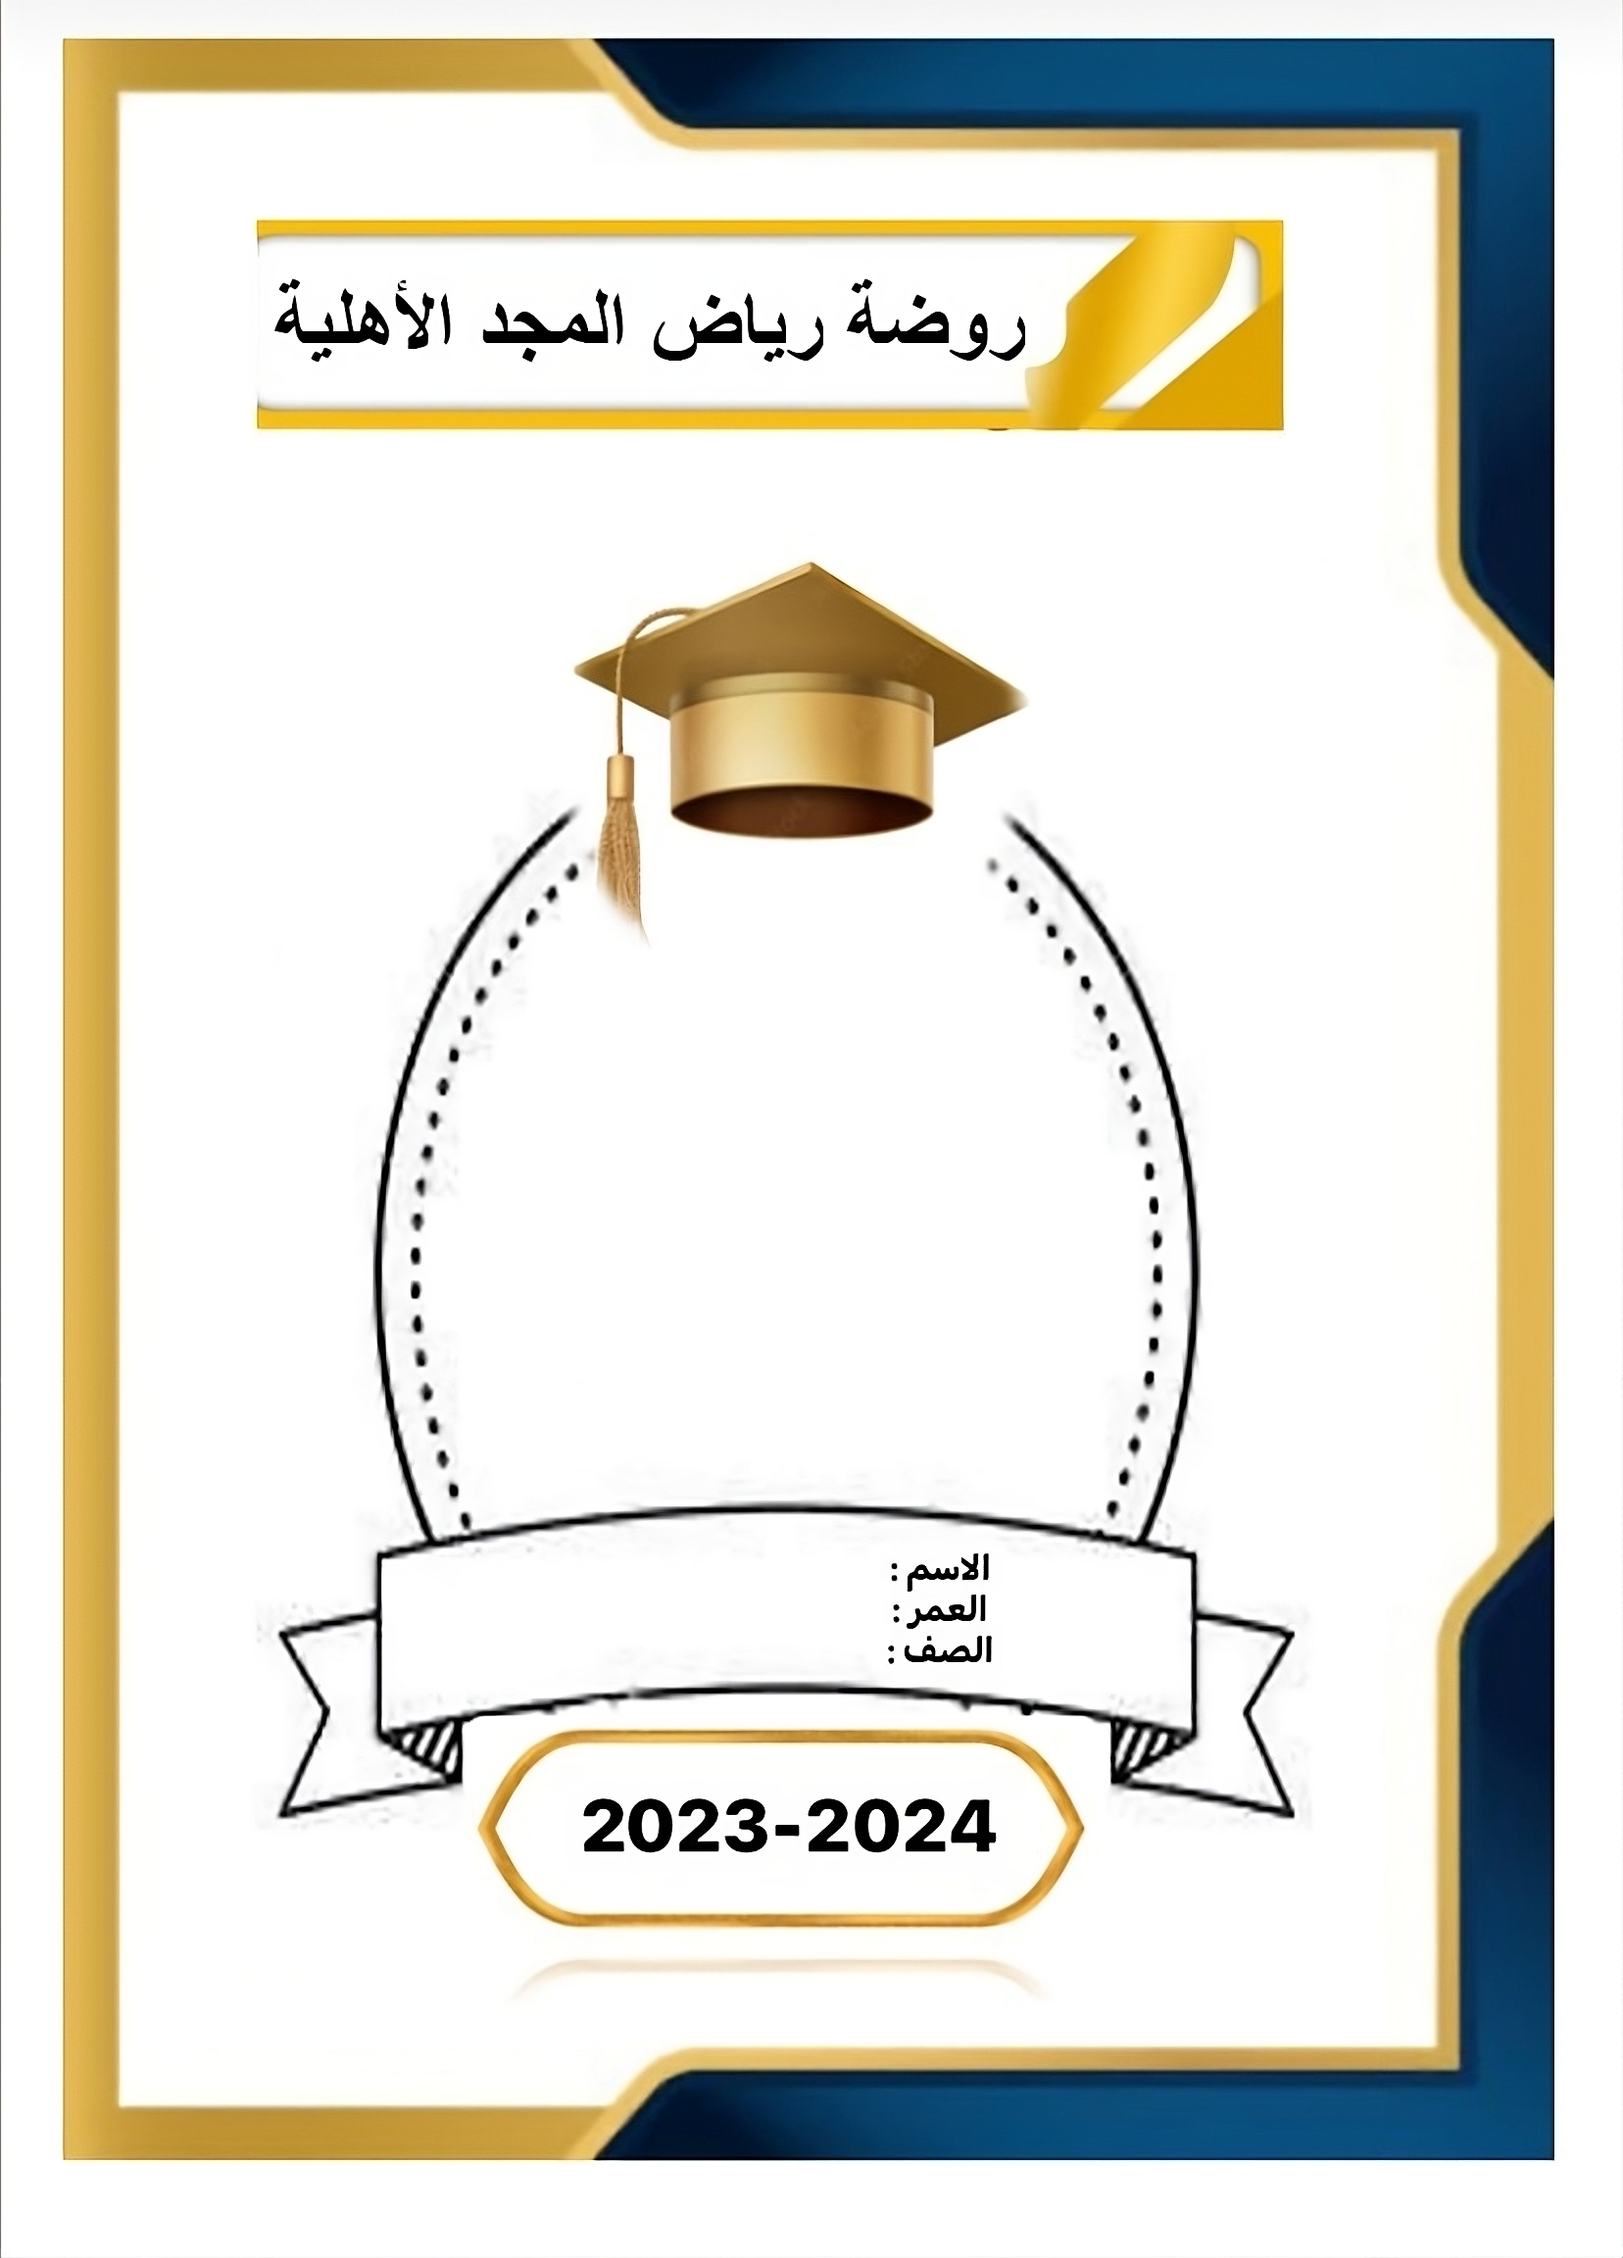
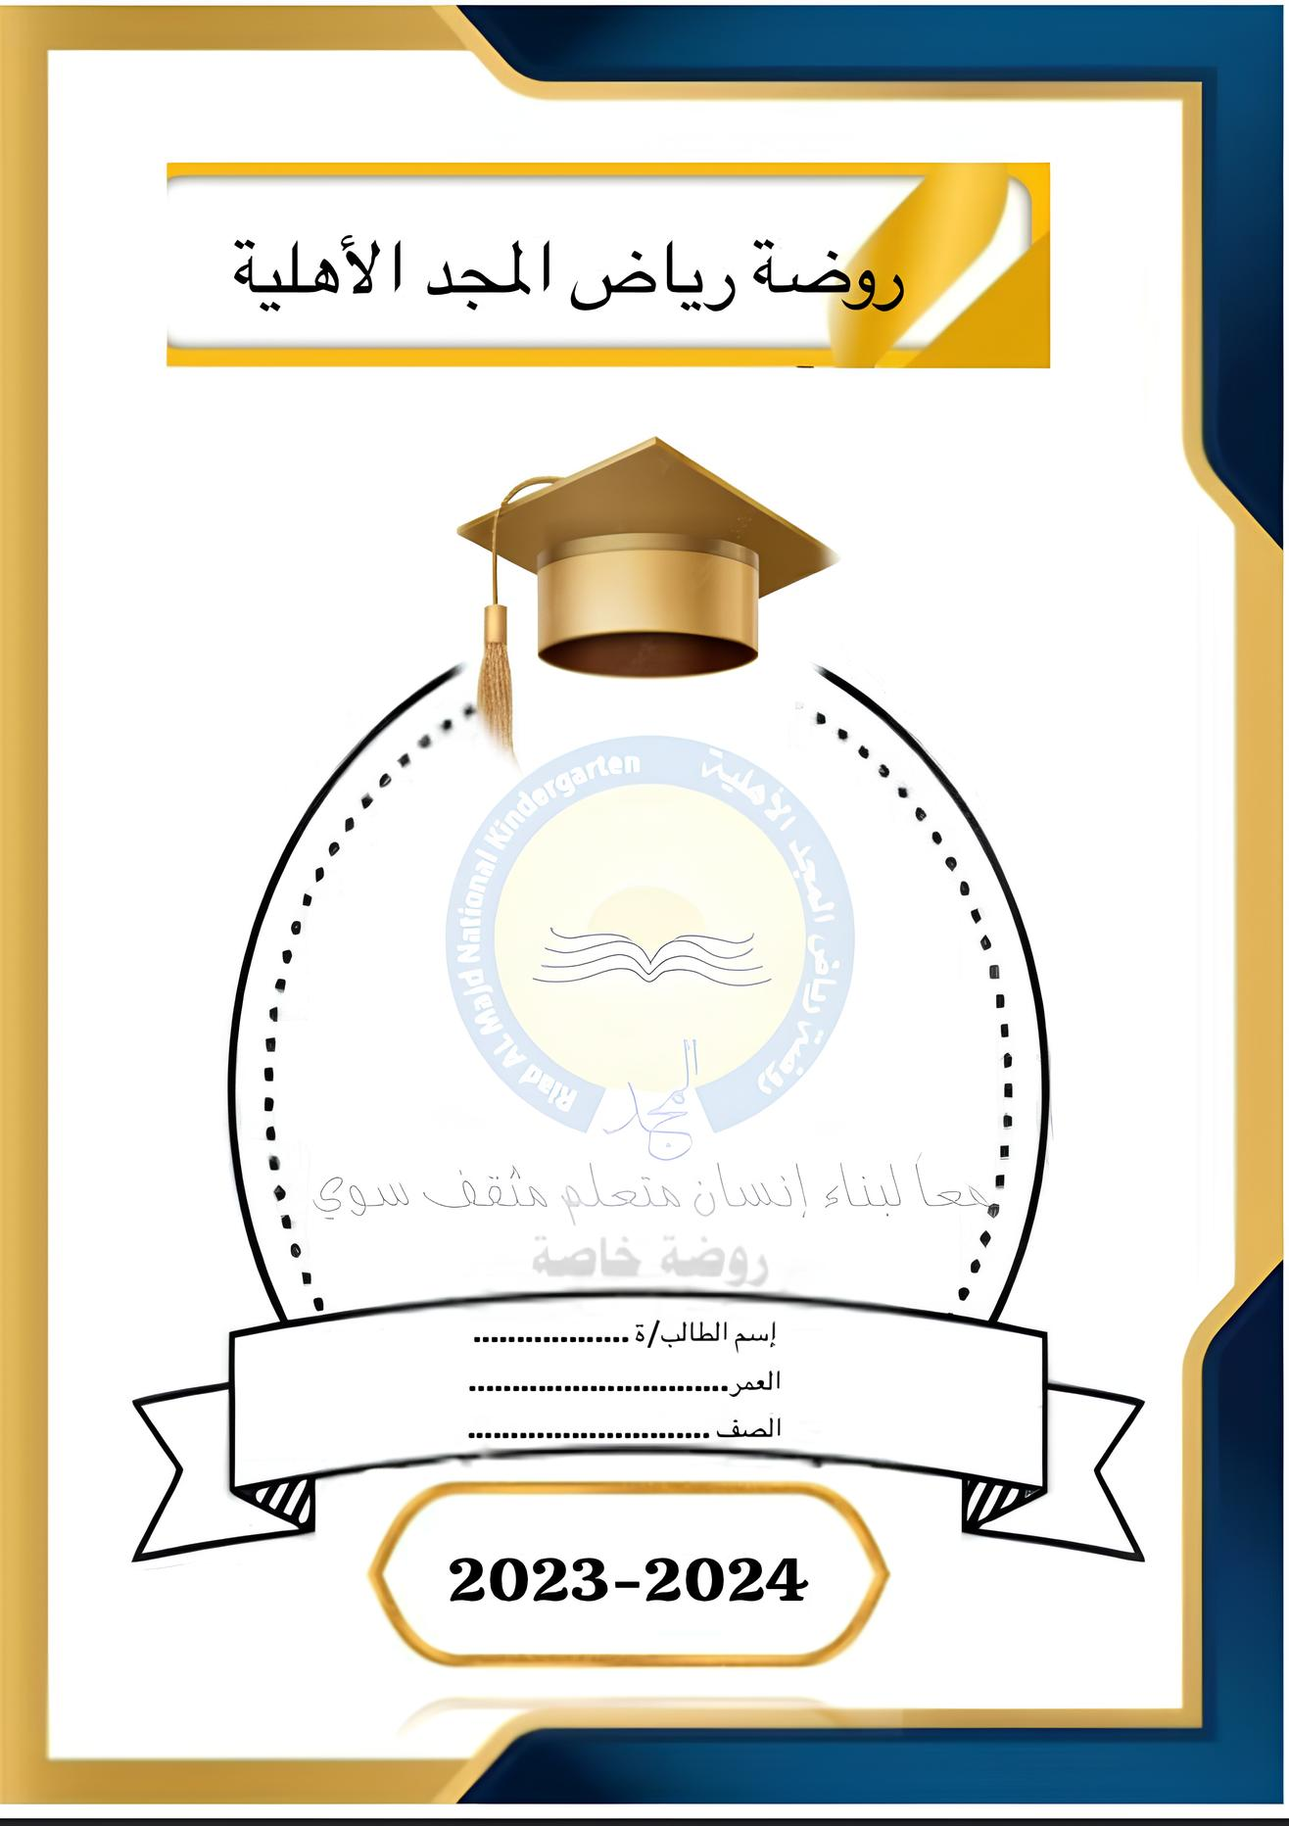
update

diff --git a/resources/views/student/marks.blade.php b/resources/views/student/marks.blade.php
@@ -22,18 +22,22 @@
 
         .student-info {
             position: absolute;
-            top: 68.4%;
+            top: 71.2%;
             width: 100%;
             text-align: center;
             padding-right: 150px;
             font-weight: bold;
             z-index: 1;
-            line-height: 40px;
+            line-height: 57px;
         }
 
         .student-info p {
-            font-size: 22px;
+            font-size: 20px;
             color: black;
+        }
+
+        .student-info .student-name {
+            margin-right: 150px;
         }
 
         .main-page {
@@ -95,8 +99,12 @@
             }
 
             .student-info p {
-                font-size: 16px;
-                line-height: 21px;
+                font-size: 12px;
+                line-height: 30px;
+            }
+
+            .student-info .student-name {
+                margin-right: 25px;
             }
 
 
@@ -121,14 +129,14 @@
         <div class="main-page">
             <div class="student-info">
 
-                <p class="mb-0">  {{ $studentClass->student->name }}</p>
+                <p class="mb-0 student-name">  {{ $studentClass->student->name }}</p>
                 <p class="mb-0">  {{ $certificate->age }}</p>
                 <p class="mb-0">  {{ $certificate->class }}</p>
             </div>
             <img src="{{ asset('assets/img/certificate_bg.jpg') }}" class="w-100" alt="image">
         </div>
 
-        <div >
+        <div>
             <table class="table table-sm table-bordered ">
                 <thead>
                 <tr>
